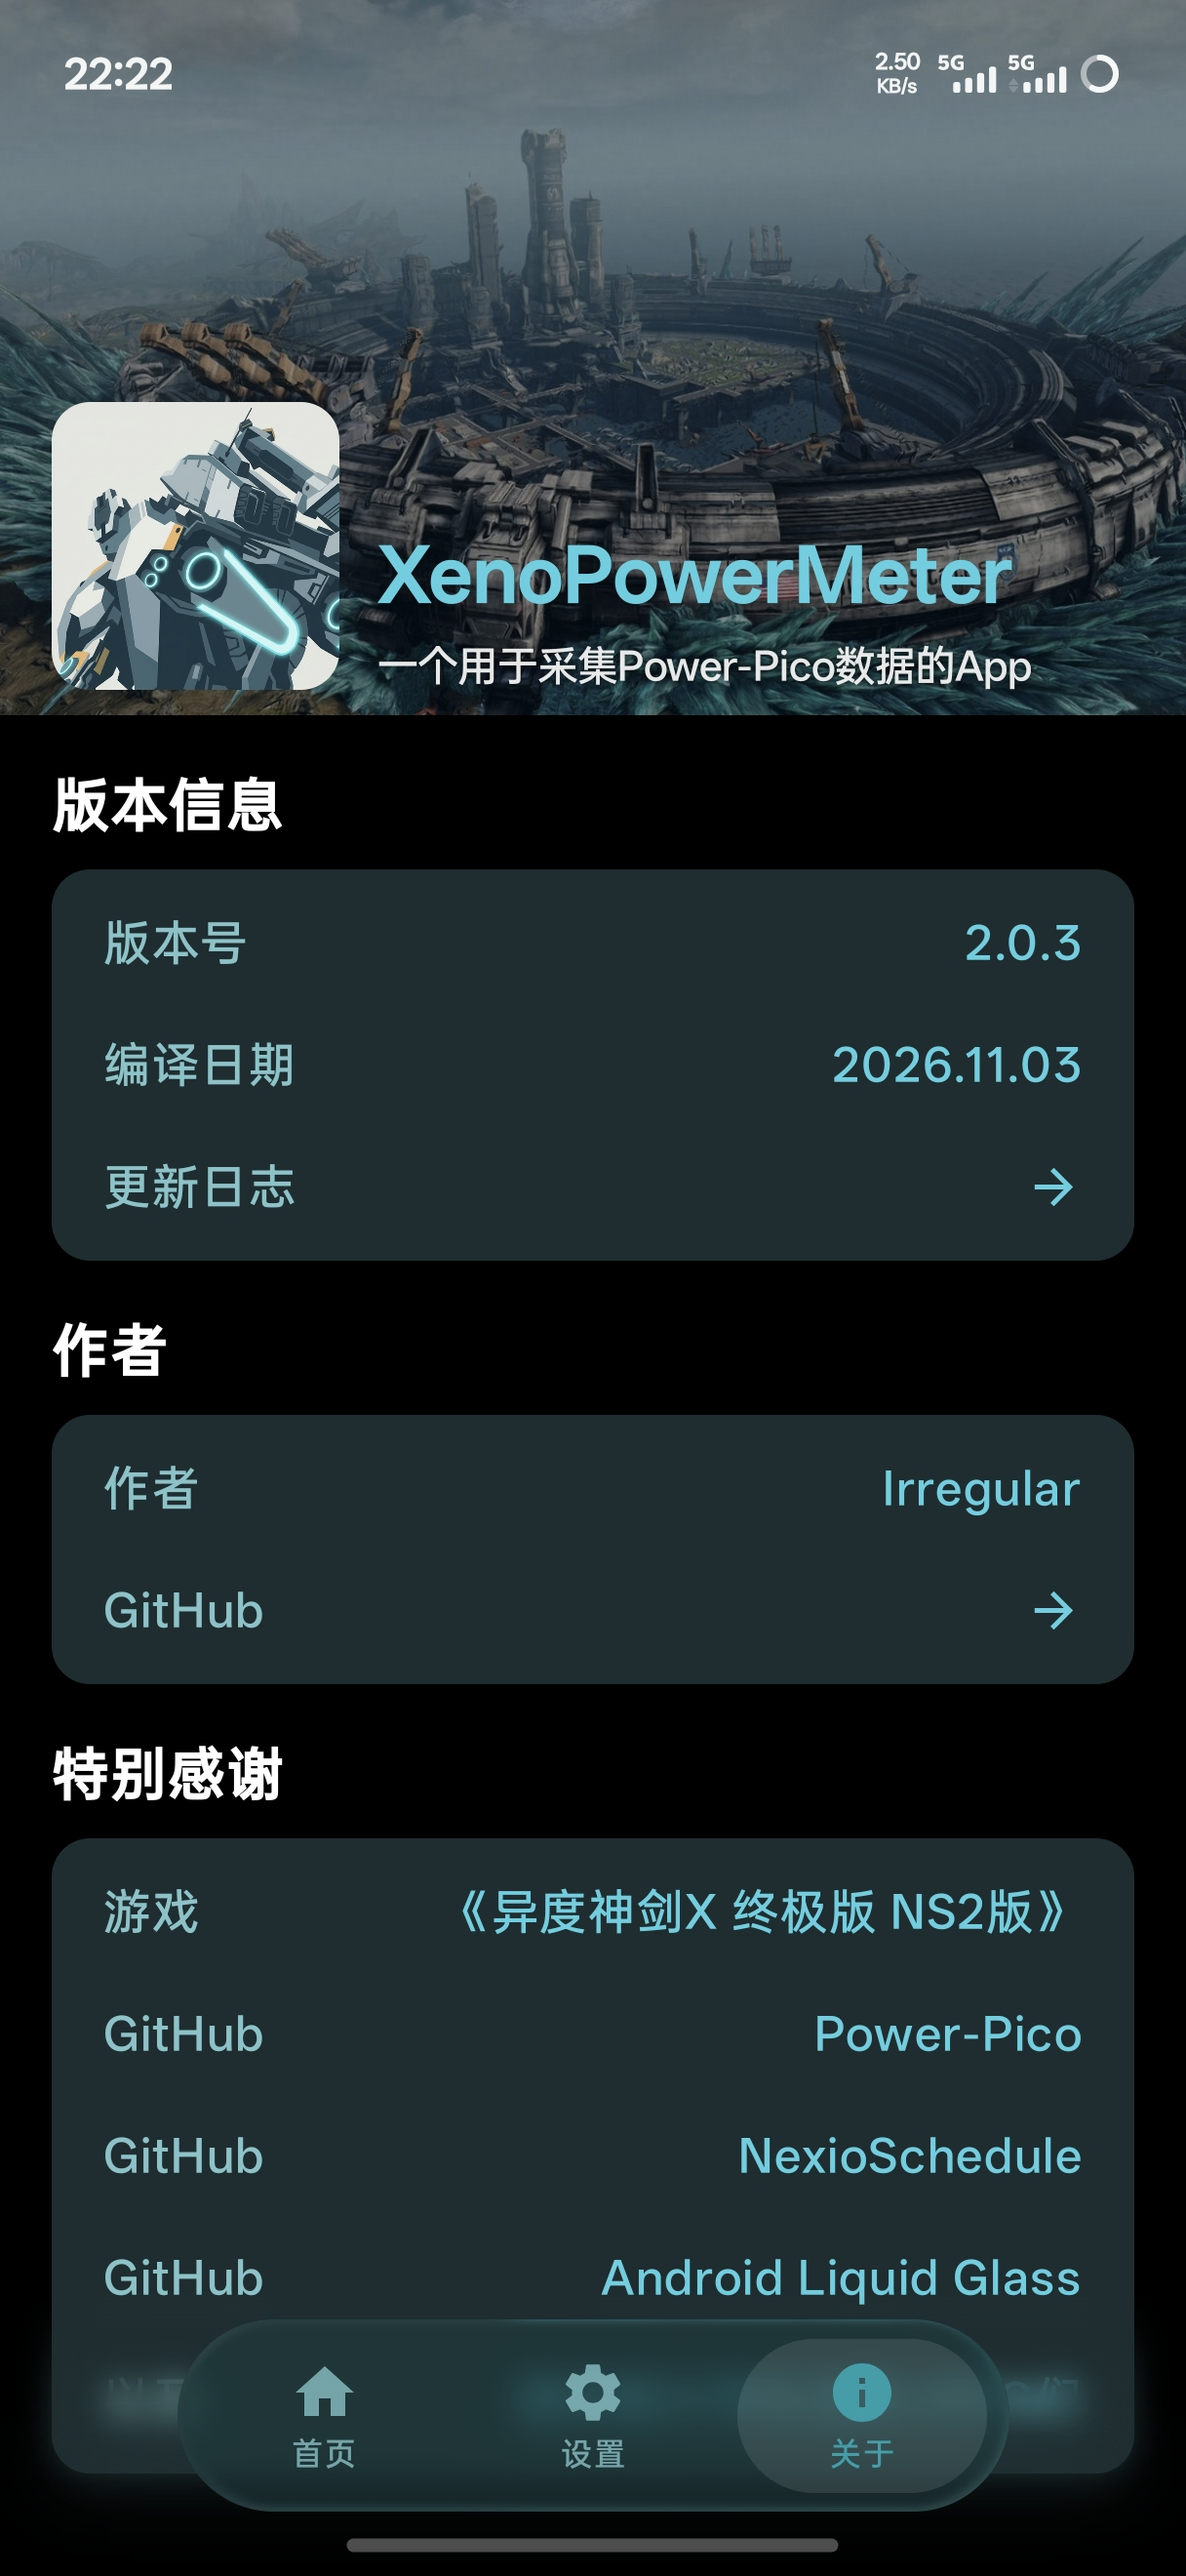
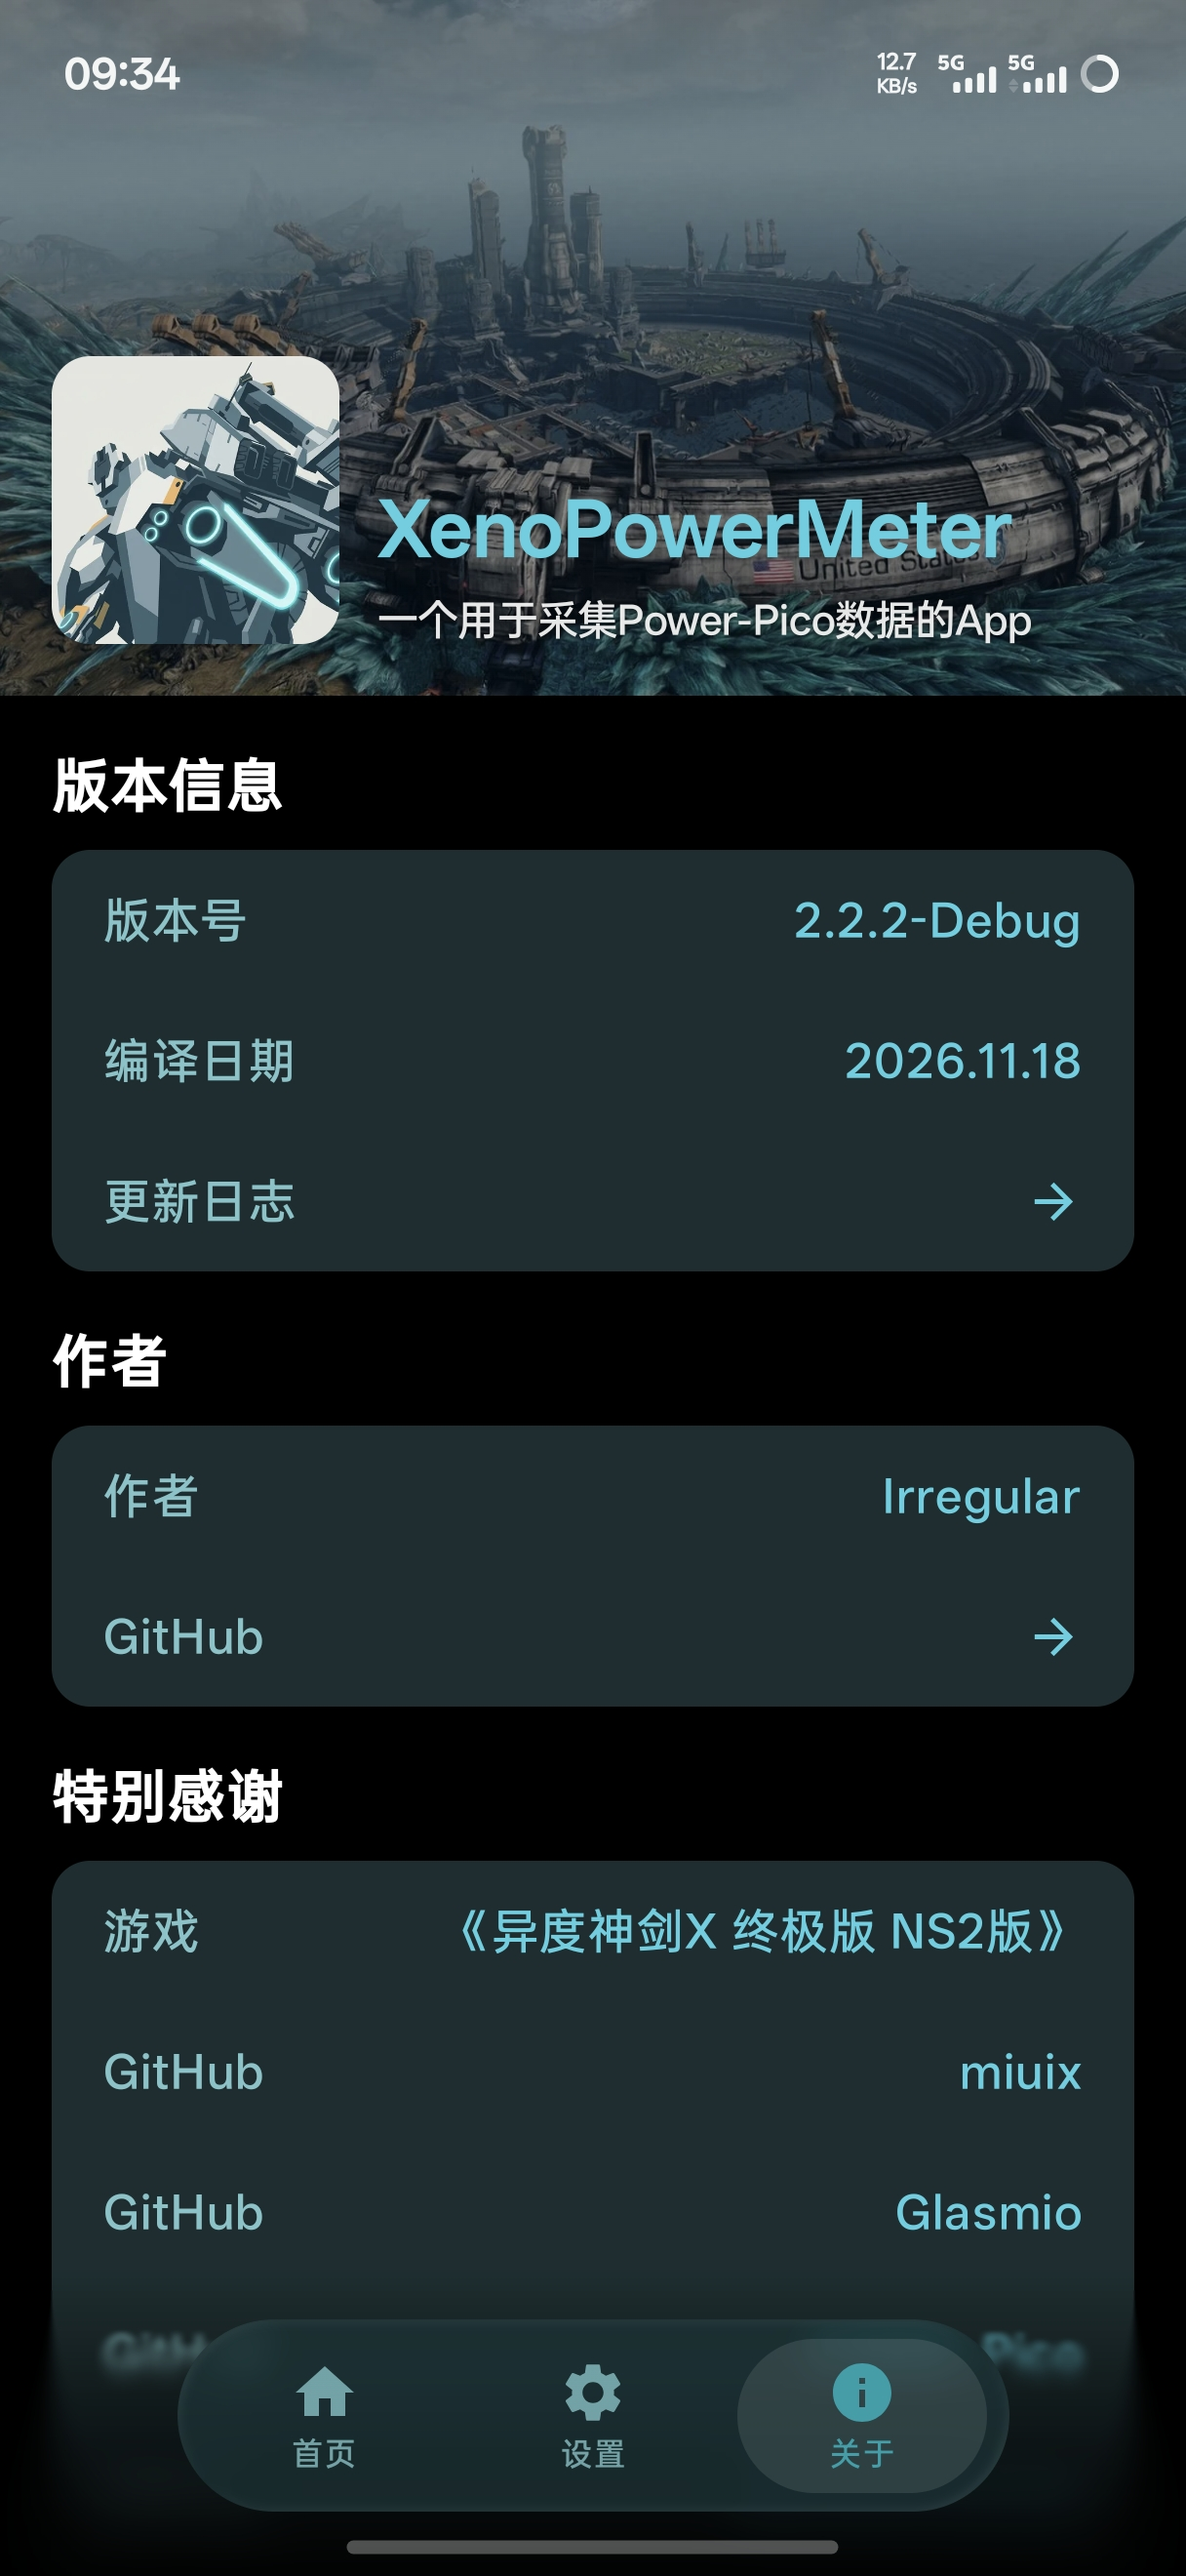
26.11.19 README.md Update

diff --git a/README.md b/README.md
@@ -14,7 +14,7 @@
 ## 支持功能
 - 采集并记录电流、电压、功率等数据
 - 导出已采集的数据，支持与PC版客户端互通
-- 调整量程，读取设备的量程参数
+- 读取设备的量程参数
 - 适配小米Hyper OS超级岛(需解除超级岛白名单)
 - 支持多语言，已适配中日英三语
 
@@ -40,63 +40,68 @@
 
 ```
 app/src/main/java/com/irregular/xenopowermeter/
-├── MainActivity.kt                     // 应用入口
-├── AppSettings.kt                      // 应用设置
-├── ui/
-│   ├── BottomInset.kt                  // 底栏/侧边导轨尺寸常量
-│   ├── LiquidBar.kt                    // 液态底栏组件
-│   ├── GlassRim.kt                     // 玻璃边缘高光/描边样式
-│   ├── ProgressiveBlur.kt              // 渐进模糊
-│   ├── BouncyOverscroll.kt             // 弹性回弹效果
-│   ├── TabletLayout.kt                 // 平板设备判断与横竖屏布局切换
+├── MainActivity.kt                       // 应用入口
+├── AppSettings.kt                        // 应用设置
+├── ui/ 
+│   ├── BottomInset.kt                    // 底栏/侧边导轨尺寸常量
+│   ├── LiquidBar.kt                      // 液态底栏组件
+│   ├── GlassRim.kt                       // 玻璃边缘高光/描边样式
+│   ├── ProgressiveBlur.kt                // 渐进模糊
+│   ├── BouncyOverscroll.kt               // 弹性回弹效果
+│   ├── TabletLayout.kt                   // 平板设备判断与横竖屏布局切换
 │   ├── main/
-│   │   ├── MainScreen.kt               // 主界面(波形图表/测量数据/网格渲染)
-│   │   └── ChartAxis.kt                // 图表坐标轴(刻度计算与轴标签绘制)
+│   │   ├── MainScreen.kt                 // 主界面(波形图表/测量数据/网格渲染)
+│   │   └── ChartAxis.kt                  // 图表坐标轴(刻度计算与轴标签绘制)
 │   ├── settings/
-│   │   └── SettingsScreen.kt           // 设置页(采样/校准/显示项配置)
+│   │   ├── SettingsScreen.kt             // 设置页(采样/校准/显示项配置)
+│   │   ├── SettingsDropdownPreference.kt // miuix组件库
+│   │   └── SettingsMiuixTheme.kt         // 桥接配色方案
 │   ├── about/
-│   │   ├── AboutScreen.kt              // 关于页
-│   │   └── ChangelogScreen.kt          // 更新日志
+│   │   ├── AboutScreen.kt                // 关于页
+│   │   └── ChangelogScreen.kt            // 更新日志
 │   ├── navigation/
-│   │   └── Navigation.kt               // 底栏页面定义
+│   │   └── Navigation.kt                 // 底栏页面定义
 │   └── theme/
-│       ├── Theme.kt                    // Material3主题配置
-│       └── Color.kt                    // 自定义颜色定义
+│       ├── Theme.kt                      // Material3主题配置
+│       └── Color.kt                      // 自定义颜色定义
 ├── viewmodel/
-│   ├── WaveformViewModel.kt            // 核心:数据采集/波形图表/状态管理
-│   ├── PowerStatistics.kt              // 功率统计
-│   ├── WaveformPoint.kt                // 波形数据点模型
-│   ├── WaveformTimeline.kt             // 波形时间轴
-│   ├── WaveformDownsampler.kt          // 波形降采样
-│   └── WaveformStartupGate.kt          // 波形显示启动门控
+│   ├── WaveformViewModel.kt              // 核心:数据采集/波形图表/状态管理
+│   ├── PowerStatistics.kt                // 功率统计
+│   ├── WaveformPoint.kt                  // 波形数据点模型
+│   ├── WaveformTimeline.kt               // 波形时间轴
+│   ├── WaveformDownsampler.kt            // 波形降采样
+│   └── WaveformStartupGate.kt            // 波形显示启动门控
 ├── data/
 │   ├── model/
-│   │   ├── UsbAdcPacket.kt             // USB数据包模型
-│   │   ├── Commands.kt                 // MCU通信协议指令
-│   │   └── Calibration.kt              // 校准参数模型
+│   │   ├── UsbAdcPacket.kt               // USB数据包模型
+│   │   ├── Commands.kt                   // MCU通信协议指令
+│   │   └── Calibration.kt                // 校准参数模型
 │   ├── usb/
-│   │   ├── UsbCdcManager.kt            // USB CDC虚拟串口管理
-│   │   ├── FrameDemuxer.kt             // 字节流分帧器(ADC包/响应帧)
-│   │   ├── Crc16.kt                    // CRC16-CCITT校验
-│   │   └── ProtocolParser.kt           // 协议解析器(采样换算/数据流分发)
+│   │   ├── UsbCdcManager.kt              // USB CDC虚拟串口管理
+│   │   ├── FrameDemuxer.kt               // 字节流分帧器(ADC包/响应帧)
+│   │   ├── Crc16.kt                      // CRC16-CCITT校验
+│   │   └── ProtocolParser.kt             // 协议解析器(采样换算/数据流分发)
 │   └── converter/
-│       └── DataConverter.kt            // 数据格式化(电压/电流/功率显示)
+│       └── DataConverter.kt              // 数据格式化(电压/电流/功率显示)
 ├── recording/
-│   └── Recorder.kt                     // 录制管理(流式落盘+.bin/.csv导出)
-├── notification/
-│   ├── IslandHelper.kt                 // 通知通道管理+小米HyperOS超级岛适配
-│   └── RecordingForegroundService.kt   // 录制期前台服务(进程保活,复用实时通知)
+│   └── Recorder.kt                       // 录制管理(流式落盘+.bin/.csv导出)
+├── notification/ 
+│   ├── IslandHelper.kt                   // 通知通道管理+小米HyperOS超级岛适配
+│   └── RecordingForegroundService.kt     // 录制期前台服务
 └── (单元测试 app/src/test/)
-    ├── data/usb/                       // Crc16/UsbAdcPacket/FrameDemuxer/ProtocolParser
-    ├── data/model/                     // Calibration
-    ├── data/converter/                 // DataConverter
-    └── viewmodel/                      // Recorder/WaveformDownsampler/WaveformTimeline等
+    ├── data/usb/                       
+    ├── data/model/                     
+    ├── data/converter/                 
+    ├── recording/                      
+    ├── ui/main/                        
+    └── viewmodel/                     
 ```
 
 ## 特别感谢：
 - [《异度神剑X 终极版 NS2版》](https://www.nintendo.com/zh-hans-hk/games/switch2/bas6a/index.html)
+- [Github - miuix](https://github.com/compose-miuix-ui/miuix)
+- [Github - Glasmio](https://github.com/NEORUAA/Glasmio)
 - [Github - Power-Pico](https://github.com/No-Chicken/Power-Pico)
 - [Github - NexioSchedule](https://github.com/HaoZai000/NexioSchedule)
 - [Github - Android Liquid Glass](https://github.com/Kyant0/AndroidLiquidGlass)
-- [Github - Glasmio](https://github.com/NEORUAA/Glasmio)
 - 以及陪伴我大学生活的JPRG们
